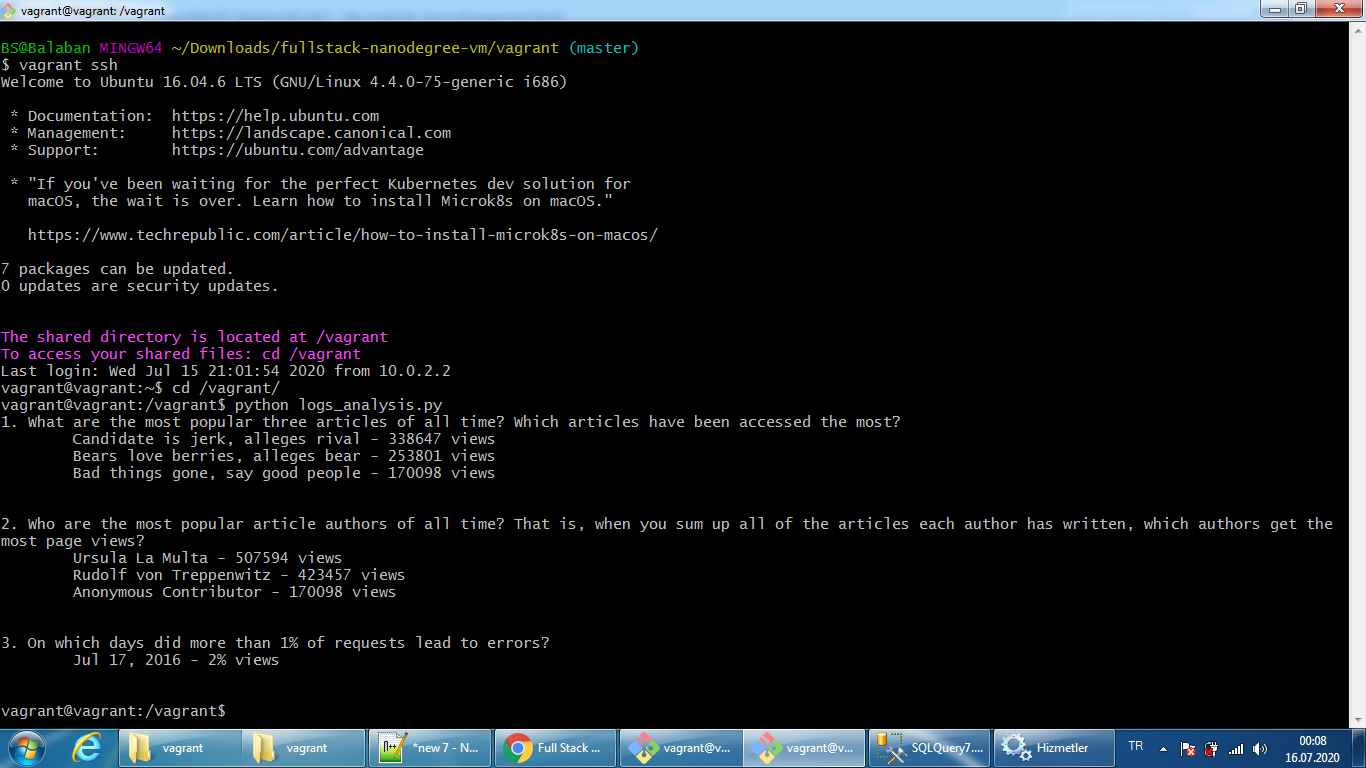
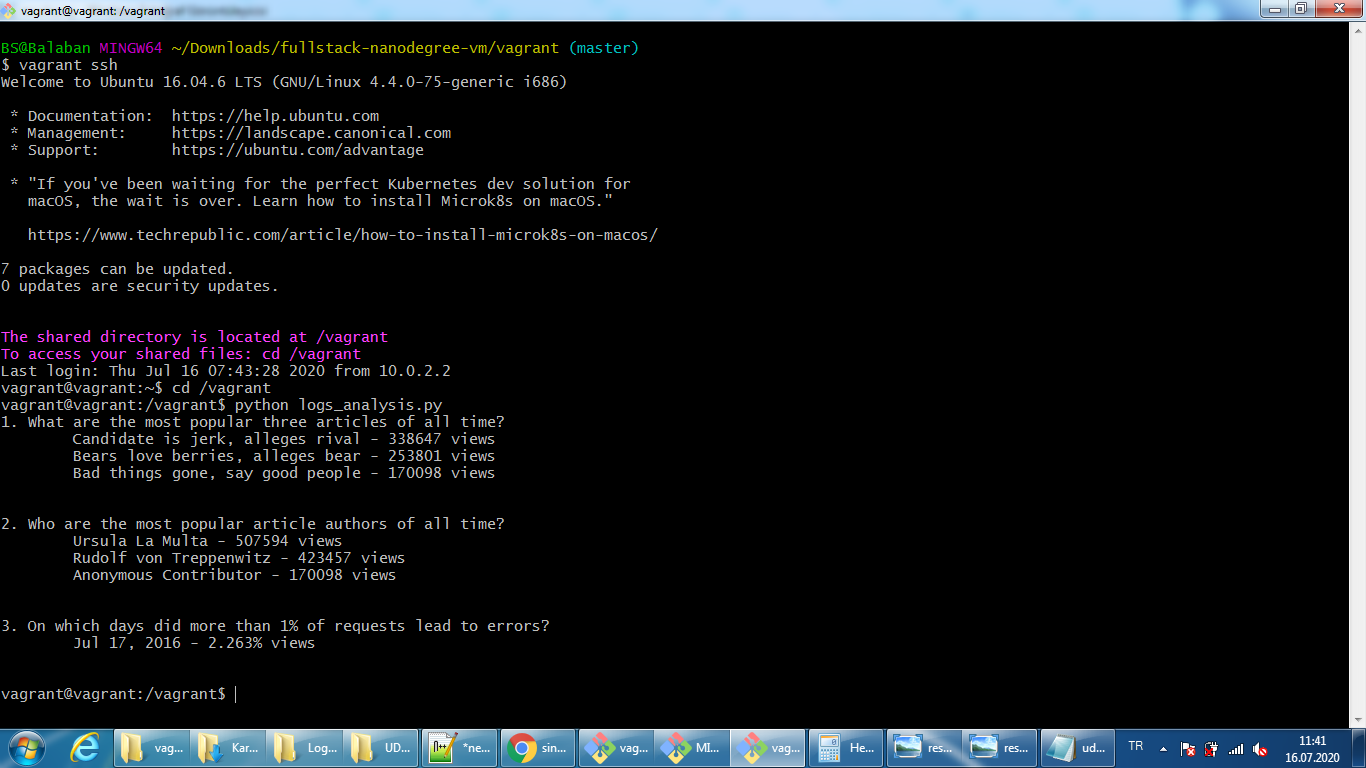
fix for loop code and result.png

diff --git a/logs_analysis.py b/logs_analysis.py
@@ -47,11 +47,14 @@ FROM
 
 
 def get_queryResults(sql_query):
-    db = psycopg2.connect(database="news")
-    c = db.cursor()
-    c.execute(sql_query)
-    results = c.fetchall()
-    db.close()
+    try:
+        db = psycopg2.connect(database="news")
+        c = db.cursor()
+        c.execute(sql_query)
+        results = c.fetchall()
+        db.close()
+    except ValueError:
+        print("Oops!, There is an error")
     return results
 
 
@@ -63,18 +66,14 @@ result3 = get_queryResults(query3)
 # print functions for query results
 
 def print_res1or2(resultData):
-    for indx in range(len(resultData)):
-        title = resultData[indx][0]
-        res = resultData[indx][1]
-        print("\t" + "%s - %d" % (title, res) + " views")
+    for key, value in resultData:
+        print("\t{} - {} views".format(key, value))
     print("\n")
 
 
 def print_res3(resultData):
-    for indx in range(len(resultData)):
-        title = resultData[indx][0]
-        res = resultData[indx][1]
-        print("\t" + "%s - %g" % (title, res) + "% views")
+    for key, value in resultData:
+        print("\t{} - {}% views".format(key, value))
     print("\n")
 
 
